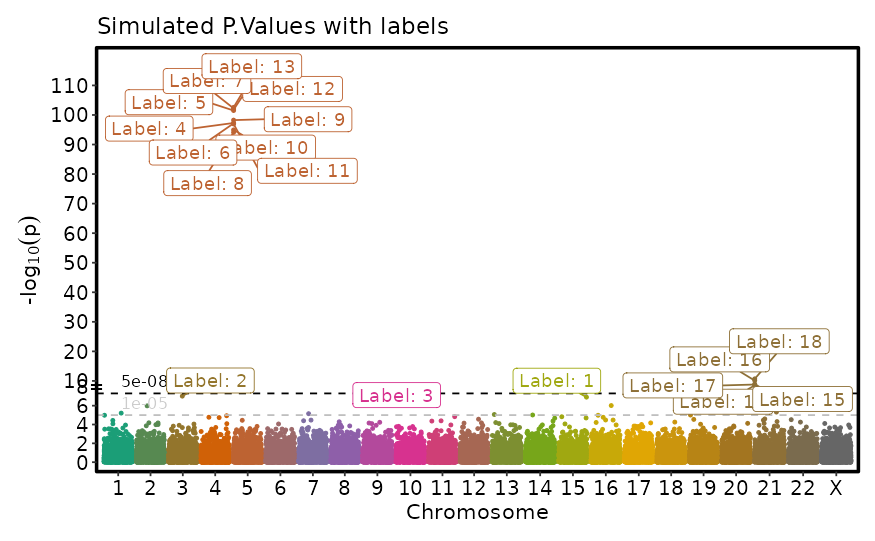
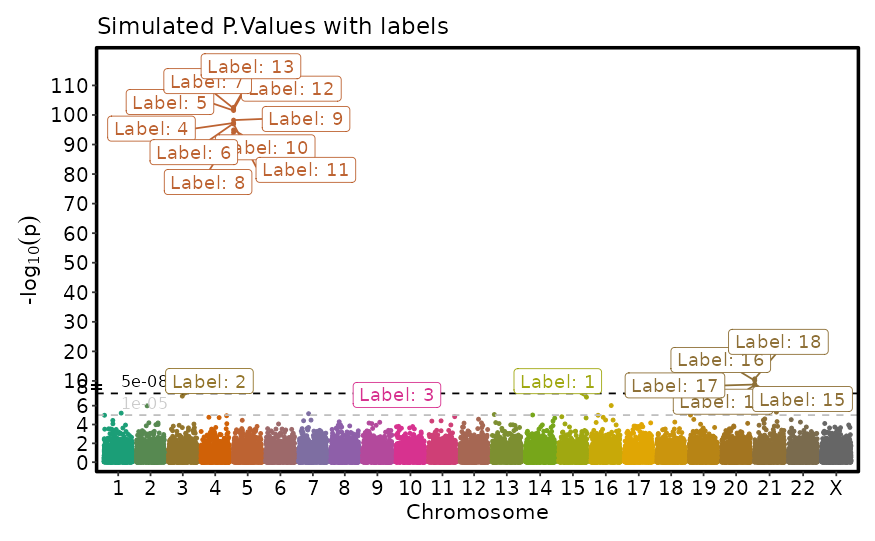
Deploying to gh-pages from @ pwwang/plotthis@5a7935d6ee4cb3437a51edac380cf1255ffacaf5 🚀

diff --git a/reference/DimPlotAtomic.html b/reference/DimPlotAtomic.html
@@ -284,8 +284,10 @@ When <code>NULL</code> (the default), the cutoffs are determined by <code>lower_
 
 
 <dt id="arg-pt-size">pt_size<a class="anchor" aria-label="anchor" href="#arg-pt-size"></a></dt>
-<dd><p>A numeric value of the point size. If NULL (default), the point size is auto-calculated as
-<code>min(3000 / nrow(data), 0.6)</code> so large datasets automatically get smaller points.</p></dd>
+<dd><p>A numeric value for point size, or a character string naming a numeric column
+in <code>data</code> to map point sizes to. If <code>NULL</code> (default), auto-calculated as
+<code>min(3000 / nrow(data), 0.6)</code>. Column-name mapping only applies to 2D plots and
+is ignored with a message when <code>raster = TRUE</code>.</p></dd>
 
 
 <dt id="arg-pt-alpha">pt_alpha<a class="anchor" aria-label="anchor" href="#arg-pt-alpha"></a></dt>
@@ -843,7 +845,9 @@ validates exactly 2 or 3 dims via <code><a href="check_columns.html">check_colum
 <code>features</code>, and <code>facet_by</code>. Requires at least one of <code>group_by</code> or
 <code>features</code>. Blocks <code>facet_by</code> when multiple features are present (features
 themselves become facets).</p></li>
-<li><p><strong>Auto defaults</strong> — <code>pt_size</code> defaults to <code>min(3000 / nrow(data), 0.6)</code>;
+<li><p><strong>Auto defaults</strong> — <code>pt_size</code> defaults to <code>min(3000 / nrow(data), 0.6)</code>
+when <code>NULL</code>. If a character string is given, it is treated as a column name
+for variable point sizing (2D only, ignored in raster mode);
 <code>raster</code> auto-enables when <code>nrow(data) &gt; 1e5</code>; <code>theme_blank</code> suppresses
 axis labels.</p></li>
 <li><p><strong>Label force-enable</strong> — if <code>label_repel</code> or <code>label_insitu</code> is <code>TRUE</code>,

diff --git a/reference/DimPlotAtomic3D.html b/reference/DimPlotAtomic3D.html
@@ -189,8 +189,10 @@ in feature mode. Default is <code>""</code>.</p></dd>
 
 
 <dt id="arg-pt-size">pt_size<a class="anchor" aria-label="anchor" href="#arg-pt-size"></a></dt>
-<dd><p>A numeric value of the point size. If NULL (default), the point size is auto-calculated as
-<code>min(3000 / nrow(data), 0.6)</code> so large datasets automatically get smaller points.</p></dd>
+<dd><p>A numeric value for point size, or a character string naming a numeric column
+in <code>data</code> to map point sizes to. If <code>NULL</code> (default), auto-calculated as
+<code>min(3000 / nrow(data), 0.6)</code>. Column-name mapping only applies to 2D plots and
+is ignored with a message when <code>raster = TRUE</code>.</p></dd>
 
 
 <dt id="arg-pt-alpha">pt_alpha<a class="anchor" aria-label="anchor" href="#arg-pt-alpha"></a></dt>

diff --git a/news/index.html b/news/index.html
@@ -37,7 +37,7 @@
     </div>
 
     <div class="section level2">
-<h2 class="pkg-version" data-toc-text="0.13.1" id="version-0131">Version 0.13.1<a class="anchor" aria-label="anchor" href="#version-0131"></a></h2>
+<h2 class="pkg-version" data-toc-text="0.13.1" id="version-0131">Version 0.13.1<a class="anchor" aria-label="anchor" href="#version-0131"></a></h2><p class="text-muted">CRAN release: 2026-07-09</p>
 <ul><li>BREAKING(LinkedHeatmap): update parameter names for link width and color in LinkedHeatmap and LinkedHeatmapAtomic</li>
 <li>BREAKING(LinkedHeatmap): replace title_gp with title_params for improved title customization</li>
 <li>feat(heatmap): consolidate annotation arguments into structured list params</li>

diff --git a/reference/DimPlotAtomic.md b/reference/DimPlotAtomic.md
@@ -216,9 +216,11 @@ DimPlotAtomic(
 
 - pt_size:
 
-  A numeric value of the point size. If NULL (default), the point size
-  is auto-calculated as `min(3000 / nrow(data), 0.6)` so large datasets
-  automatically get smaller points.
+  A numeric value for point size, or a character string naming a numeric
+  column in `data` to map point sizes to. If `NULL` (default),
+  auto-calculated as `min(3000 / nrow(data), 0.6)`. Column-name mapping
+  only applies to 2D plots and is ignored with a message when
+  `raster = TRUE`.
 
 - pt_alpha:
 
@@ -877,7 +879,9 @@ A ggplot object or a plotly object (when 3 dimensions are provided)
     are present (features themselves become facets).
 
 5.  **Auto defaults** — `pt_size` defaults to
-    `min(3000 / nrow(data), 0.6)`; `raster` auto-enables when
+    `min(3000 / nrow(data), 0.6)` when `NULL`. If a character string is
+    given, it is treated as a column name for variable point sizing (2D
+    only, ignored in raster mode); `raster` auto-enables when
     `nrow(data) > 1e5`; `theme_blank` suppresses axis labels.
 
 6.  **Label force-enable** — if `label_repel` or `label_insitu` is

diff --git a/reference/DimPlotAtomic3D.md b/reference/DimPlotAtomic3D.md
@@ -138,9 +138,11 @@ DimPlotAtomic3D(
 
 - pt_size:
 
-  A numeric value of the point size. If NULL (default), the point size
-  is auto-calculated as `min(3000 / nrow(data), 0.6)` so large datasets
-  automatically get smaller points.
+  A numeric value for point size, or a character string naming a numeric
+  column in `data` to map point sizes to. If `NULL` (default),
+  auto-calculated as `min(3000 / nrow(data), 0.6)`. Column-name mapping
+  only applies to 2D plots and is ignored with a message when
+  `raster = TRUE`.
 
 - pt_alpha:
 

diff --git a/news/index.md b/news/index.md
@@ -2,6 +2,8 @@
 
 ## Version 0.13.1
 
+CRAN release: 2026-07-09
+
 - BREAKING(LinkedHeatmap): update parameter names for link width and
   color in LinkedHeatmap and LinkedHeatmapAtomic
 - BREAKING(LinkedHeatmap): replace title_gp with title_params for